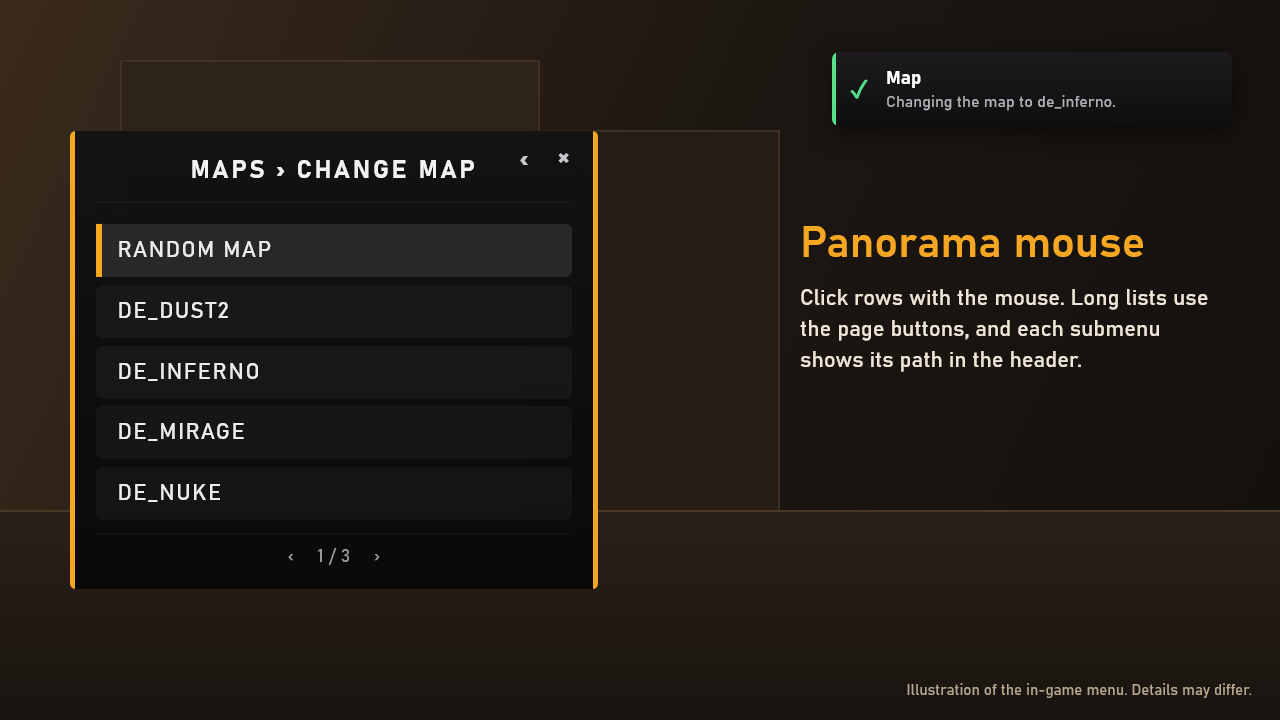
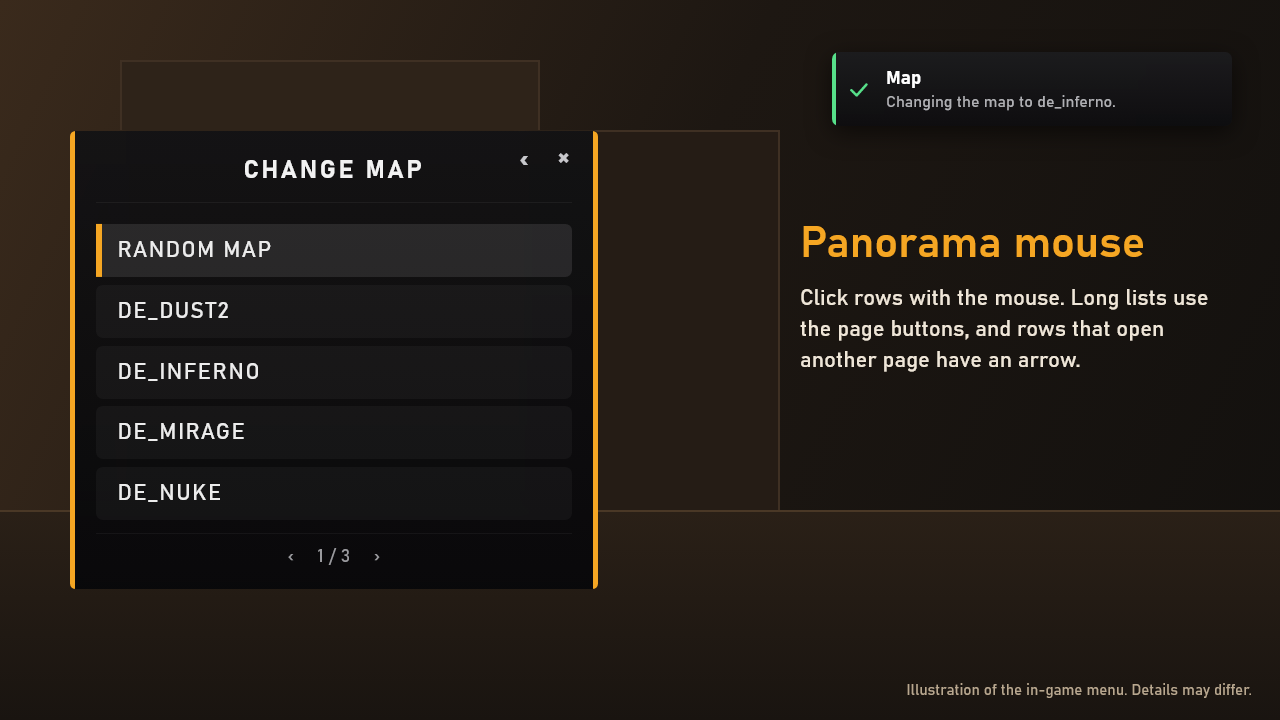
docs: the mockups and pictures match the menus now
No breadcrumb in Panorama titles, arrows only on rows that open a page, the rotation page's Mode change and Count skipped maps rows, and the notification icon pictures. render-visuals.ps1 fills in the icons' folder (__ICONS__).

Changed region(s): [[0.625, 0.4278, 0.9062, 0.5194], [0.125, 0.2139, 0.375, 0.2444]]

diff --git a/addon/mockups/scenes.html b/addon/mockups/scenes.html
@@ -71,7 +71,7 @@ html,body{width:1280px;height:720px;overflow:hidden;background:#12100e;font-fami
 .sa .pill.on{background:#2f4a22;color:#a6d86a}.sa .pill.off{background:#ffffff14;color:#b0b0b4}
 .sa .val{flex:none;font-size:15px;color:#b0b0b4;margin-right:8px}
 .sa .bot{display:flex;justify-content:space-between;padding:12px 24px 14px;font-size:15px;color:#c8c8cc;border-top:1px solid #ffffff14}
-.nv{width:400px;background:linear-gradient(180deg,rgba(74,74,76,.9),rgba(58,58,60,.92));border-radius:3px;box-shadow:0 8px 30px #0008;color:#f2f2f2;font-size:20px;backdrop-filter:blur(4px)}.nv .nh{display:flex;align-items:center;gap:10px;height:54px;padding:0 16px;background:#0000002a;color:#d8d8da;font-size:18px}.nv .nh img{width:34px;height:34px;flex:none}.nv .nq{display:flex;padding:18px 18px 0;min-height:118px}.nv .nq .q{flex:1;line-height:1.3;padding-top:10px}.nv .nr{display:flex;flex-direction:column;gap:12px;align-items:flex-end}.nv .nr div{display:flex;align-items:center;gap:8px;font-size:28px;font-weight:700}.nv .yes i{width:40px;height:40px;border-radius:6px;background:#4c9a2a;display:flex;align-items:center;justify-content:center}.nv .no i{width:40px;height:40px;border-radius:20px;background:#e8473c;display:flex;align-items:center;justify-content:center}.nv .nr svg{width:26px;height:26px}.nv .yes b{color:#5cb83a;width:22px}.nv .no b{color:#ff5a4d;width:22px}.nv .nf{display:flex;justify-content:space-between;padding:26px 18px 18px;font-size:18px;color:#e6e6e8}.nv .nf .k1{color:#5cd65c}.nv .nf .k2{color:#ff6b5e}</style></head>
+.nv{width:400px;background:linear-gradient(180deg,rgba(74,74,76,.9),rgba(58,58,60,.92));border-radius:3px;box-shadow:0 8px 30px #0008;color:#f2f2f2;font-size:20px;backdrop-filter:blur(4px)}.nv .nh{display:flex;align-items:center;gap:10px;height:54px;padding:0 16px;background:#0000002a;color:#d8d8da;font-size:18px}.nv .nh img{width:34px;height:34px;flex:none}.nv .nq{display:flex;padding:18px 18px 0;min-height:118px}.nv .nq .q{flex:1;line-height:1.3;padding-top:10px}.nv .nr{display:flex;flex-direction:column;gap:12px;align-items:flex-end}.nv .nr div{display:flex;align-items:center;gap:8px;font-size:28px;font-weight:700}.nv .yes i{width:40px;height:40px;border-radius:6px;background:#4c9a2a;display:flex;align-items:center;justify-content:center}.nv .no i{width:40px;height:40px;border-radius:20px;background:#e8473c;display:flex;align-items:center;justify-content:center}.nv .nr svg{width:26px;height:26px}.nv .yes b{color:#5cb83a;width:22px}.nv .no b{color:#ff5a4d;width:22px}.nv .nf{display:flex;justify-content:space-between;padding:26px 18px 18px;font-size:18px;color:#e6e6e8}.nv .nf .k1{color:#5cd65c}.nv .nf .k2{color:#ff6b5e}.sa .pc{font-size:13px;letter-spacing:1px;font-weight:600;color:#ffe9e6}.sa .bot .nx{margin-left:30px}.ntf .ni img{width:20px;height:20px;display:block;margin:0 auto}</style></head>
 <body><div class="stage"><div class="wall"></div><div class="wall b"></div><div class="floor"></div>
 <div class="host" id="host"></div>
 <div class="side"><h1 id="h"></h1><p id="p"></p></div>
@@ -85,10 +85,10 @@ var digitKeys='<div class="foot"><span class="k">1</span><span class="or">&ndash
 var scenes={
 wasd:{h:'Panorama WASD',p:'Move with W and S, select with D or E, go back with A and close with R.',
  m:'<div class="pm"><div class="band">Game Modes</div><div class="rows">'+rows(['Change mode','Set next mode','Start vote'],1)+'</div><div class="div"></div><div class="page"><span>&lsaquo;</span><span>1 / 1</span><span>&rsaquo;</span></div>'+keys+'</div>'},
-mouse:{h:'Panorama mouse',p:'Click rows with the mouse. Long lists use the page buttons, and each submenu shows its path in the header.',
- m:'<div class="pm"><div class="band">Maps &rsaquo; Change map</div><div class="ic back">&lsaquo;</div><div class="ic x">&times;</div><div class="rows">'+rows(['Random map','de_dust2','de_inferno','de_mirage','de_nuke'],0)+'</div><div class="div"></div><div class="page"><span>&lsaquo;</span><span>1 / 3</span><span>&rsaquo;</span></div><div class="pad"></div></div>'},
+mouse:{h:'Panorama mouse',p:'Click rows with the mouse. Long lists use the page buttons, and rows that open another page have an arrow.',
+ m:'<div class="pm"><div class="band">Change map</div><div class="ic back">&lsaquo;</div><div class="ic x">&times;</div><div class="rows">'+rows(['Random map','de_dust2','de_inferno','de_mirage','de_nuke'],0)+'</div><div class="div"></div><div class="page"><span>&lsaquo;</span><span>1 / 3</span><span>&rsaquo;</span></div><div class="pad"></div></div>'},
 digits:{h:'Panorama number keys',p:'The same panel, driven by the number keys. Press 1 to 6 to pick, 8 for back, 9 for next and 0 to exit.',
- m:'<div class="pm"><div class="band">Maps</div><div class="rows">'+['Change map','Set next map','Start vote'].map(function(t,i){return '<div class="row"><span><span class="num">'+(i+1)+'</span>'+t+'</span></div>'}).join('')+'</div><div class="div"></div><div class="page"><span>&lsaquo;</span><span>1 / 1</span><span>&rsaquo;</span></div>'+digitKeys+'</div>'},
+ m:'<div class="pm"><div class="band">Maps</div><div class="rows">'+['Change map','Set next map','Start vote'].map(function(t,i){return '<div class="row"><span><span class="num">'+(i+1)+'</span>'+t+'</span><span class="chev">&rsaquo;</span></div>'}).join('')+'</div><div class="div"></div><div class="page"><span>&lsaquo;</span><span>1 / 1</span><span>&rsaquo;</span></div>'+digitKeys+'</div>'},
 csgo:{h:'CS:GO style',p:'The classic number key menu. Press 1 to 7 to pick, 8 for back, 9 for next and 0 to exit.',
  m:'<div class="cg"><div class="t">Game Modes</div><div class="r">1. Change mode</div><div class="r">2. Set next mode</div><div class="r">3. Start vote</div><div class="gap"></div><div class="r off">0. Exit</div></div>'},
 vote:{h:'Map and mode votes',p:'Vote with pictures for each map. A game mode can appear in the vote alongside the maps, using its default map\'s picture.',
@@ -102,21 +102,22 @@ admin:{h:'Admin panel',p:'CS2-SimpleAdmin on its own panel, in red so admin tool
   ['Warmup','<circle cx="12" cy="14" r="7"/><path d="M12 11v3l2 2M10 3h4M12 3v4"/>'],
   ['Rotation','<path d="M20 11a8 8 0 0 0-14.500-4L3 9M3 4v5h5M4 13a8 8 0 0 0 14.500 4L21 15M21 20v-5h-5"/>']
  ].map(function(r){return '<div class="rw"><svg class="ico" viewBox="0 0 24 24" fill="none" stroke="currentColor" stroke-width="2.200" stroke-linecap="round" stroke-linejoin="round">'+r[1]+'</svg><span>'+r[0]+'</span><div class="ar">&rsaquo;</div></div>'}).join('')+'</div><div class="bot"><span>Back</span><span>Close</span></div></div>'}
-,rotation:{h:'Rotation settings',p:'Turn map rotation, mode rotation, and RTV and nominate on or off from the admin panel, and choose how often modes change. Changes last until the server restarts.',
- m:'<div class="sa"><div class="hd"><div class="brand">ADMIN MENU</div></div><div class="tl"><div class="cr">Main &rsaquo; Manage game &rsaquo;</div><div class="tt">Rotation</div></div><div class="list">'+
+,rotation:{h:'Rotation settings',p:'Turn map rotation, mode rotation, and RTV and nominate on or off from the admin panel, and choose how often modes change and whether the mode is picked at random or by a vote. Changes last until the server restarts.',
+ m:'<div class="sa"><div class="hd"><div class="brand">ADMIN MENU</div><div class="pc">1 / 2</div></div><div class="tl"><div class="cr">Main &rsaquo; Manage game &rsaquo;</div><div class="tt">Rotation</div></div><div class="list">'+
   '<div class="rw"><span>Map rotation</span><div class="pill on">ON</div></div>'+
   '<div class="rw"><span>Mode rotation</span><div class="pill off">OFF</div></div>'+
   '<div class="rw"><span>Change mode every</span><div class="val">4 map(s)</div><div class="ar">&rsaquo;</div></div>'+
+  '<div class="rw"><span>Mode change</span><div class="val">Random mode</div><div class="ar">&rsaquo;</div></div>'+
+  '<div class="rw"><span>Count skipped maps</span><div class="pill off">OFF</div></div>'+
   '<div class="rw"><span>RTV / Nominate</span><div class="pill on">ON</div></div>'+
   '<div class="rw"><span>Rotate when empty</span><div class="pill off">OFF</div></div>'+
-  '<div class="rw"><span>Empty server wait</span><div class="val">10 min</div><div class="ar">&rsaquo;</div></div>'+
-  '</div><div class="bot"><span>Back</span><span>Close</span></div></div>'}
+  '</div><div class="bot"><span>Back<span class="nx">Next</span></span><span>Close</span></div></div>'}
 ,native:{h:'Native vote panel',p:'With Votes.Style set to native, !changemap, !changemode and !changesetting use the game\'s own F1/F2 panel. It shows who started the vote, with the game\'s change level icon.',
[1 lines of base64/hex data omitted]
 };
 // A notification for each scene, the way PMM shows one beside the menu
 var notes={wasd:['ok','Mode','Next mode set to Gun Game.'],mouse:['ok','Map','Changing the map to de_inferno.'],digits:['warn','Mode','de_dust2 isn\'t in the Surf map pool.'],vote:['ok','Vote','You voted aim_map.'],admin:['ok','Setting','Alltalk enabled.'],native:['ok','Vote','You voted yes.']};
-function note(n){return n?'<div class="ntf'+(n[0]=='warn'?' warn':'')+'"><div class="ni">'+(n[0]=='warn'?'!':'&#10003;')+'</div><div class="nb"><div class="nt">'+n[1]+'</div><div class="nx">'+n[2]+'</div></div></div>':''}
+function note(n){return n?'<div class="ntf'+(n[0]=='warn'?' warn':'')+'"><div class="ni">'+'<img src="__ICONS__notify_'+(n[0]=='warn'?'warn':'ok')+'.png">'+'</div><div class="nb"><div class="nt">'+n[1]+'</div><div class="nx">'+n[2]+'</div></div></div>':''}
 var s=scenes[location.hash.slice(1)]||scenes.wasd;
 document.getElementById('host').innerHTML=s.m;document.querySelector('.stage').insertAdjacentHTML('beforeend',note(notes[location.hash.slice(1)||'wasd']));document.getElementById('h').textContent=s.h;document.getElementById('p').textContent=s.p;
 </script></body></html>

diff --git a/README.md b/README.md
@@ -41,7 +41,7 @@ GameModeManager's menus use [PanoramaMenuManager](https://github.com/RRimmer/Pan
 | Panorama WASD | Panorama mouse |
 | :-: | :-: |
 | ![Panorama WASD menu](docs/images/menu-wasd.png) | ![Panorama mouse menu](docs/images/menu-mouse.png) |
-| Move with `W` and `S`, select with `D` or `E`, go back with `A` and close with `R`. | Click a row to select it. Long lists have page buttons at the bottom. |
+| Move with `W` and `S`, select with `D` or `E`, go back with `A` and close with `R`. | Click a row to select it. Rows that open another page have an arrow, and long lists have page buttons at the bottom. |
 
 | Panorama number keys | CS:GO style |
 | :-: | :-: |
